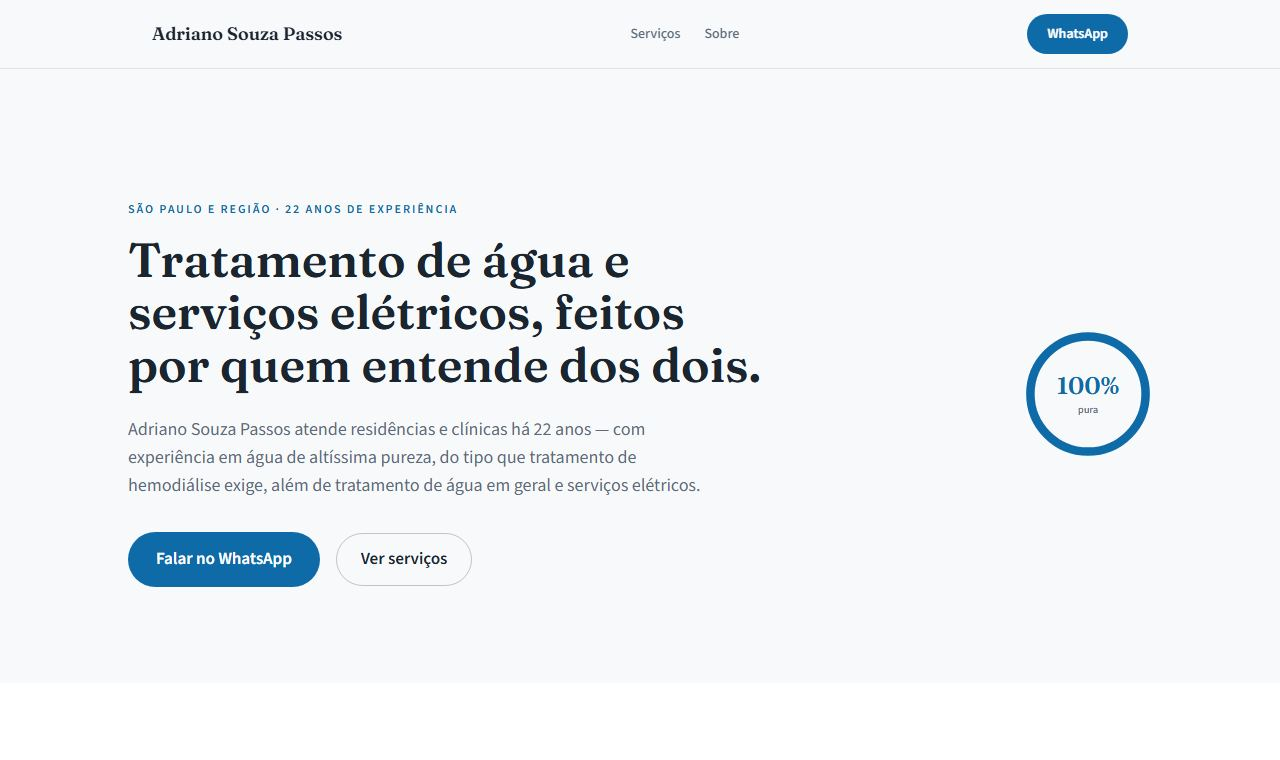
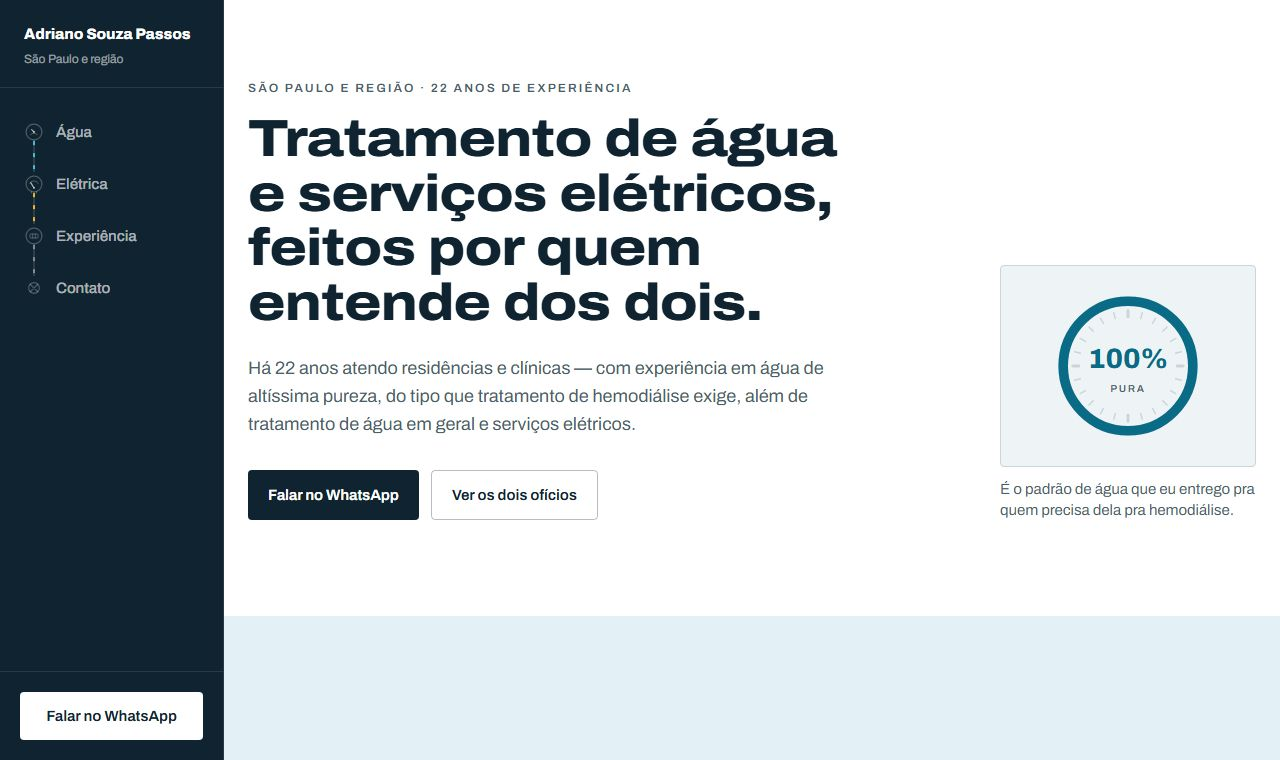
feat(madolio): remove Nascente do portfólio, agora absorvido pelo Adriano
Os dois viraram um só a pedido do usuário: a linguagem visual do
Nascente (esquema técnico, painel de instrumentos) passou pro site do
Adriano, então manter os dois na vitrine seria mostrar a mesma ideia
duas vezes. Descrição e preview do Adriano atualizados pra refletir a
identidade nova.

Portfólio fica com 32 projetos.

diff --git a/madolio/src/data/projetos.ts b/madolio/src/data/projetos.ts
@@ -35,20 +35,10 @@ export const projetos: Projeto[] = [
     category: 'Tratamento de água e serviços elétricos',
     tag: 'Casa & Design',
     description:
-      'Site real, sem modo demonstração: um anel de pureza enche até 100% no hero — o selo visual da especialidade dele em água de altíssima pureza, do tipo que hemodiálise exige — e cada ofício (água, elétrica) tem sua própria cor, nunca misturadas.',
-    bg: '#eaf4fb',
-    accent: '#0e6ba8',
+      'Site real, sem modo demonstração: cada ofício é desenhado na notação técnica de verdade do próprio ofício — P&ID pra água, diagrama unifilar pra elétrica — e a navegação é um painel de instrumentos, com manômetro na água e amperímetro na elétrica. Uma cor por ofício, nunca misturadas.',
+    bg: '#e3f0f5',
+    accent: '#0a6b87',
     url: 'https://adriano.fenoninho-max.workers.dev',
-  },
-  {
-    name: 'Nascente',
-    category: 'Equipamentos para tratamento de água',
-    tag: 'Casa & Design',
-    description:
-      'O sistema de filtração vira um diagrama técnico de verdade no hero — a água escorre pelos canos até a osmose reversa, e cada impureza para exatamente na etapa que a retém.',
-    bg: '#DCEFFB',
-    accent: '#0E8FB2',
-    url: 'https://nascente.fenoninho-max.workers.dev',
   },
   {
     name: 'Doce Ateliê',
